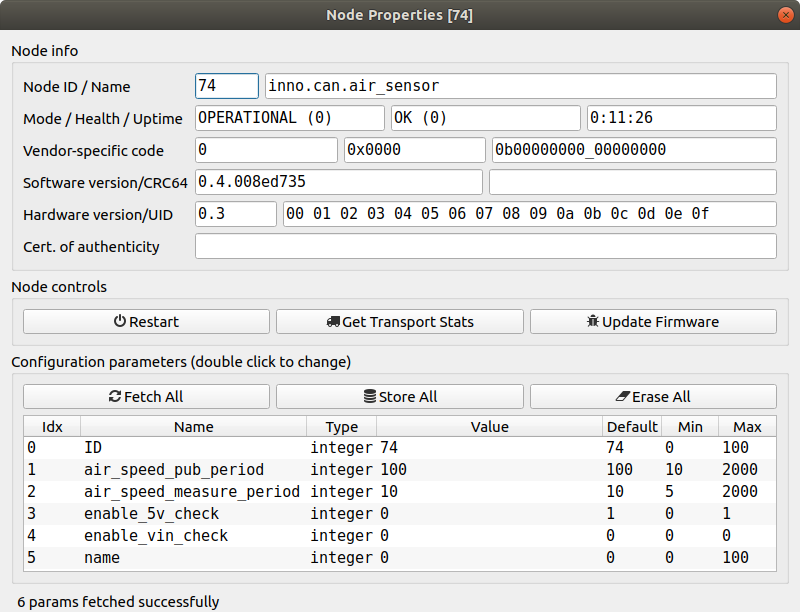
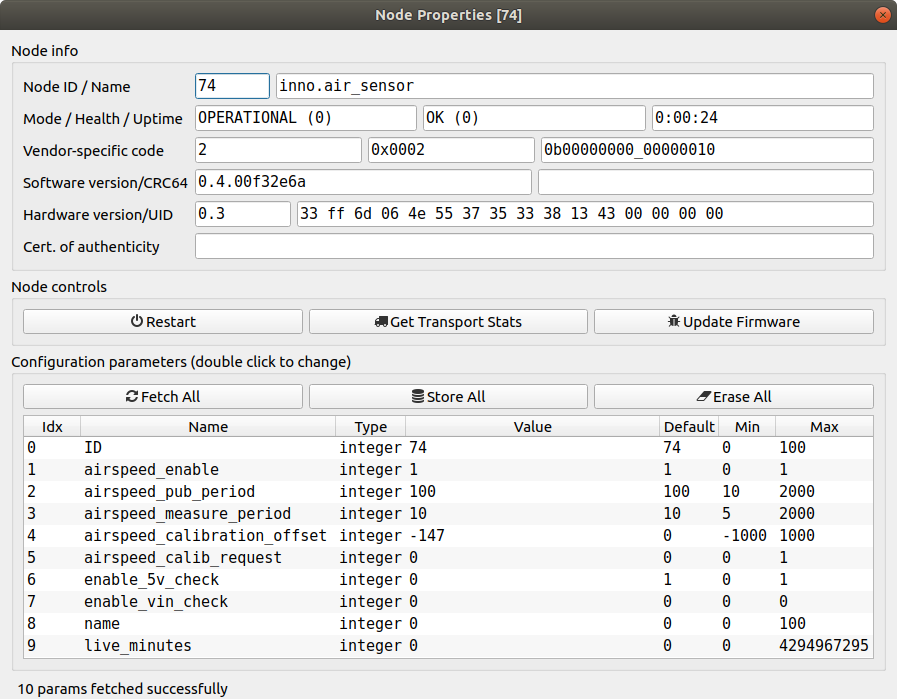
airspeed: update doc

Changed region(s): [[0.0, 0.0, 1.0, 1.0]]

diff --git a/doc/airspeed/README.md b/doc/airspeed/README.md
@@ -74,11 +74,50 @@ If we consider temperature ~288 Kelvin and pressure 101325 Pa according to ISA m
 
 It also sends [uavcan.equipment.power.CircuitStatus](https://legacy.uavcan.org/Specification/7._List_of_standard_data_types/#circuitstatus) messages with measured `5V` and `Vin`.
 
+**Calibration**
+
+By setting `airspeed_calib_request` parameter to 1 the node goes into the calibration mode for 10 seconds where it summarizes all measured differential pressures and in the end divides the sum by the number of measurements. The negative resulted averaged value is writen into the `airspeed_calibration_offset` parameter. This offset is added to the differential pressure of each measurement. During the calibration process the node has `INITIALIZATION` mode. After the initialization process the node doesn't save parameters to the flasm memory, you need to do it manually.
+As an alternative, you may always manually set `airspeed_calibration_offset` parameter.
+
+```
+Note. Using params to start the calibration process is definetely not the best solution. But this is the only way to start it from the QGC side. Current PX4 supports only centralized calibration on the autopilot side.
+```
+
+**Enable/disable**
+
+Normally, you don't need this feature. But it allows you to start and stop publishing via UAVCAN in real time without physical disconnect.
+
+**Software version**
+
+GetNodeInfo response contains software version that allows you to differentiate one firmware from another. See `Node Properties` window in `uavcan gui tool`.
+
+**Hardware version**
+
+Not implemented yet.
+
+**Hardware unique ID**
+
+GetNodeInfo response contains hardware unique ID that allows you to differentiate one board from another. See `Node Properties` window in `uavcan gui tool`.
+
+
 ## 6. Parameters
 
 Available list of parameters is shown on the picture below:
 
 ![scheme](airspeed_params.png?raw=true "scheme")
+
+| № | Param name   | Description |
+| - | ------------ | ----------- |
+| 0 | ID           | You should manually choose the node ID. On the bus few nodes with the same ID should not exist. |
+| 1 | airspeed_enable | 0 - disable data publication, 1 - enable |
+| 2 | airspeed_pub_period | Period of message publication |
+| 3 | airspeed_measurement_period | Period of data measurement |
+| 4 | airspeed_calibration_offset | The publicated differential pressure = measured pressure + this offset |
+| 5 | airspeed_calibration_request | Automatic calibration request. See this feature description for details. |
+| 6 | enable_5v_check | Set ERROR status if 5V voltage is out of range 4.5 - 5.5 V |
+| 7 | enable_vin_check | Set ERROR status if Vin voltage is less then 4.5 V |
+| 8 | name | If specified value != 0, use custom node name. There is no custom names yet, but it might be extended if you need. |
+| 9 | live_minutes | Not implemented yet. |
 
 ## 7. Led indication
 
@@ -105,11 +144,37 @@ And plot created in the same conditions:
 
 ![airspeed_plot](airspeed_plot.png?raw=true "airspeed_plot")
 
-Here we have an offset in measurements. It might be calibrated during PX4 calibration process.
+Here we have an offset in measurements. It might be calibrated during calibration process.
 
 ## 9. UAV usage example
 
 This node has been tested several times on VTOL application.
+
+**PX4 Parameters setting before usage**
+
+Normally, to use it with your PX4-based Autopilot you need to setup following parameters:
+- `UAVCAN_ENABLE`,
+- `UAVCAN_SUB_ASPD` (since 1.13.1).
+It is also reccomended to setup `ASPD_DO_CHECKS`.
+
+**Node parameters setup using QGC**
+
+At that moment the best way to setup the node parameters is to use `MAVLing console`.
+
+By typing `uavcan status` in MAVLink console you should be able to see this device.
+
+To perform calibration on sensor side from QGC you should type:
+1. `uavcan param list 74` - check is calibration feature is supported
+2. `uavcan param set 74 airspeed_calib_request 1` to start calibration
+3. `uavcan param save 74` - to save new calibration parameters.
+
+![airspeed_qgc](airspeed_qgc.png?raw=true "airspeed_qgc")
+
+Here 74 is our node id. It has calibration offset -69.
+
+After that the node is ready for use.
+
+**Flight log example**
 
 Here you may see the screenshot from the log from the real flight in FW mode.
 
